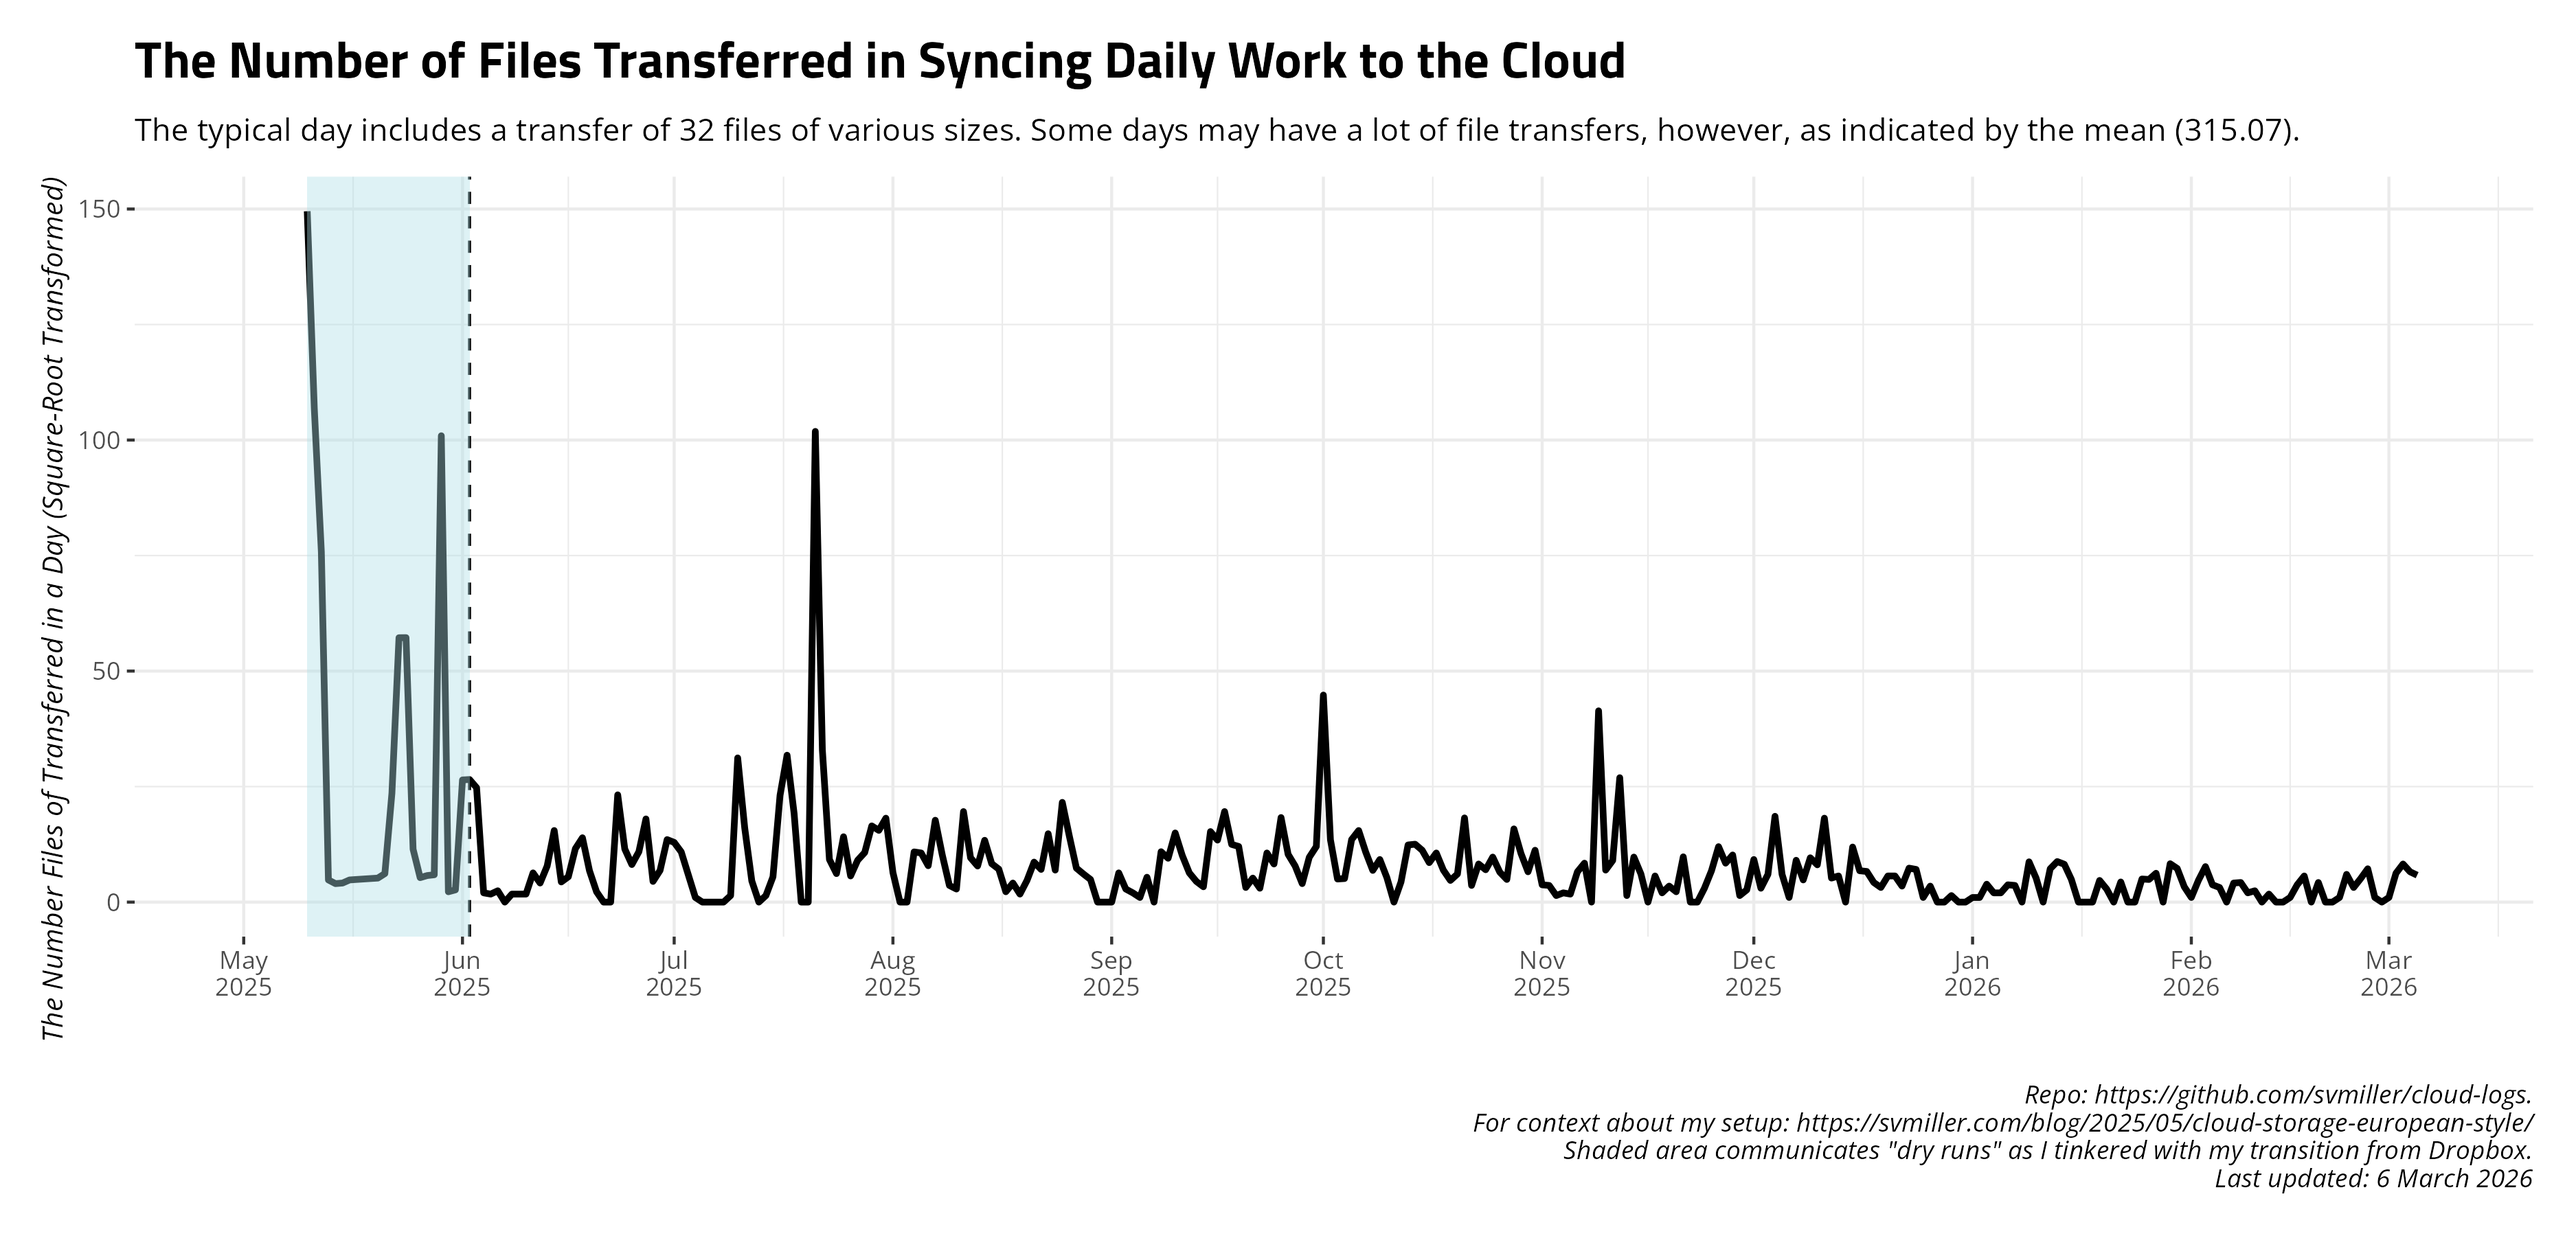
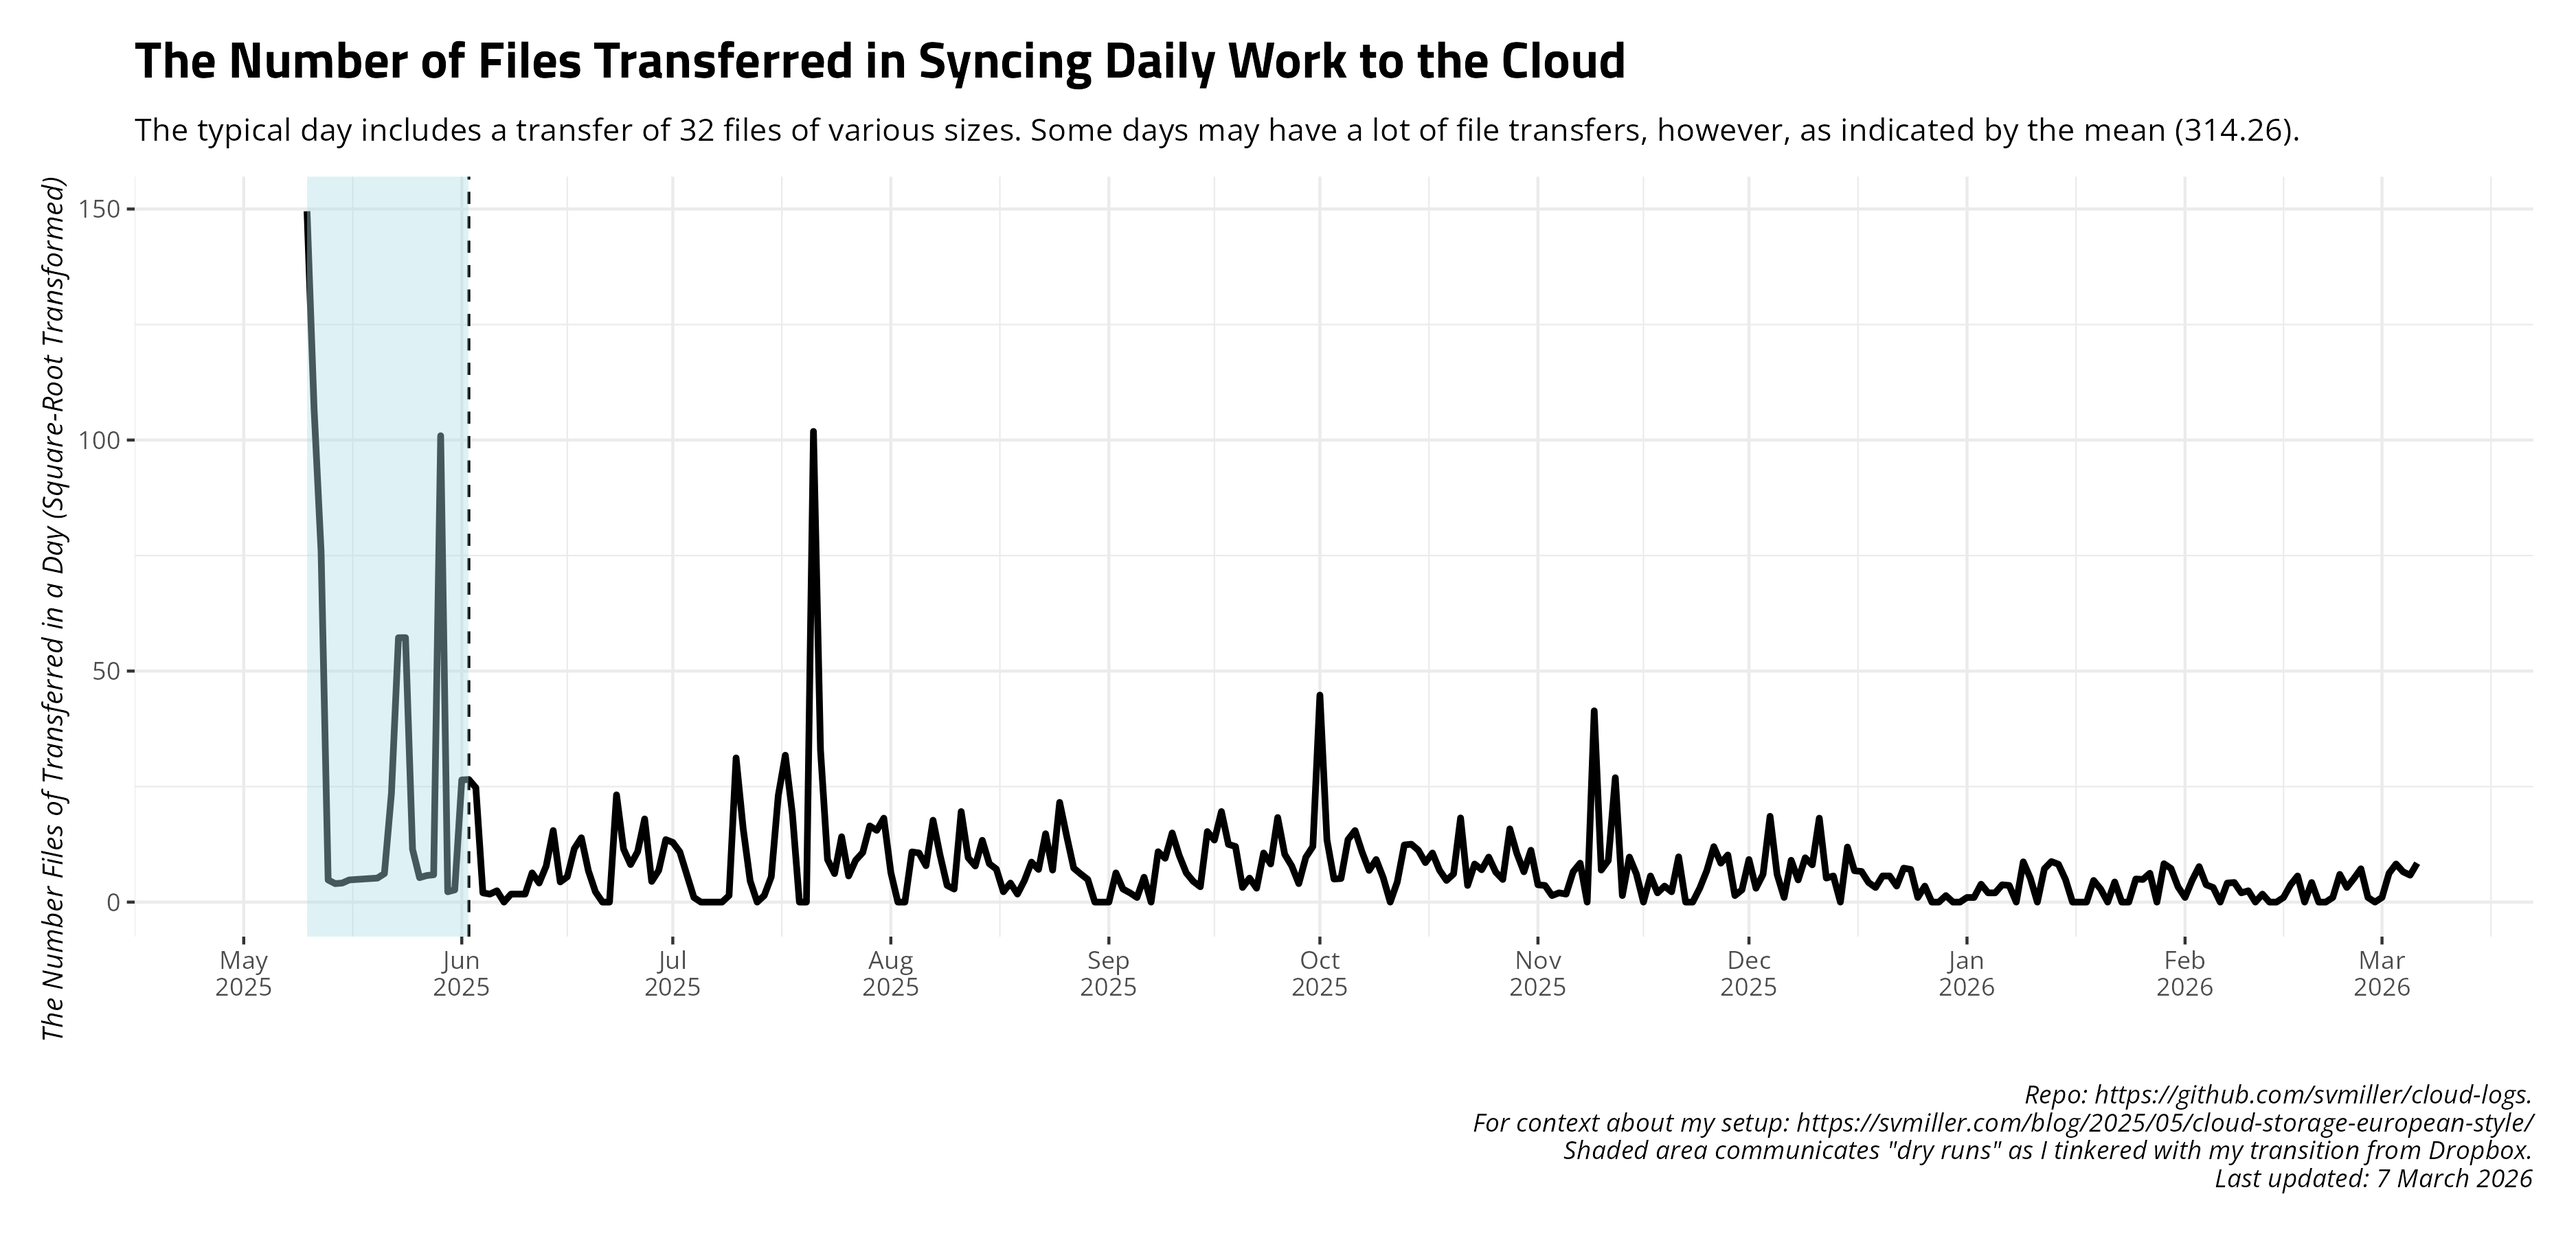
Date: 2026-03-07 09:00:24. Hi mom!

diff --git a/README.md b/README.md
@@ -27,17 +27,17 @@ and uploads to Github.
     #> # A tibble: 14 × 4
     #>    date       ftransfer stransfer   elapsed
     #>    <date>         <dbl> <chr>       <chr>  
-    #>  1 2026-02-20         0 <NA>        4m32.5s
-    #>  2 2026-02-21         0 <NA>        4m21.1s
-    #>  3 2026-02-22         1 5.451 KiB   4m31.2s
-    #>  4 2026-02-23        36 36.310 MiB  4m27.7s
-    #>  5 2026-02-24        10 102.766 KiB 5m52.5s
-    #>  6 2026-02-25        26 597.885 KiB 6m31.5s
-    #>  7 2026-02-26        52 1.423 MiB   6m32.0s
-    #>  8 2026-02-27         1 57.085 KiB  6m56.7s
-    #>  9 2026-02-28         0 <NA>        5m11.6s
-    #> 10 2026-03-01         1 54.132 KiB  5m10.4s
-    #> 11 2026-03-02        39 1.947 MiB   4m27.2s
-    #> 12 2026-03-03        68 1.023 MiB   5m0.6s 
-    #> 13 2026-03-04        43 13.051 MiB  5m1.4s 
-    #> 14 2026-03-05        34 104.038 KiB 5m33.8s
+    #>  1 2026-02-21         0 <NA>        4m21.1s
+    #>  2 2026-02-22         1 5.451 KiB   4m31.2s
+    #>  3 2026-02-23        36 36.310 MiB  4m27.7s
+    #>  4 2026-02-24        10 102.766 KiB 5m52.5s
+    #>  5 2026-02-25        26 597.885 KiB 6m31.5s
+    #>  6 2026-02-26        52 1.423 MiB   6m32.0s
+    #>  7 2026-02-27         1 57.085 KiB  6m56.7s
+    #>  8 2026-02-28         0 <NA>        5m11.6s
+    #>  9 2026-03-01         1 54.132 KiB  5m10.4s
+    #> 10 2026-03-02        39 1.947 MiB   4m27.2s
+    #> 11 2026-03-03        68 1.023 MiB   5m0.6s 
+    #> 12 2026-03-04        43 13.051 MiB  5m1.4s 
+    #> 13 2026-03-05        34 104.038 KiB 5m33.8s
+    #> 14 2026-03-06        71 3.873 MiB   5m24.4s
